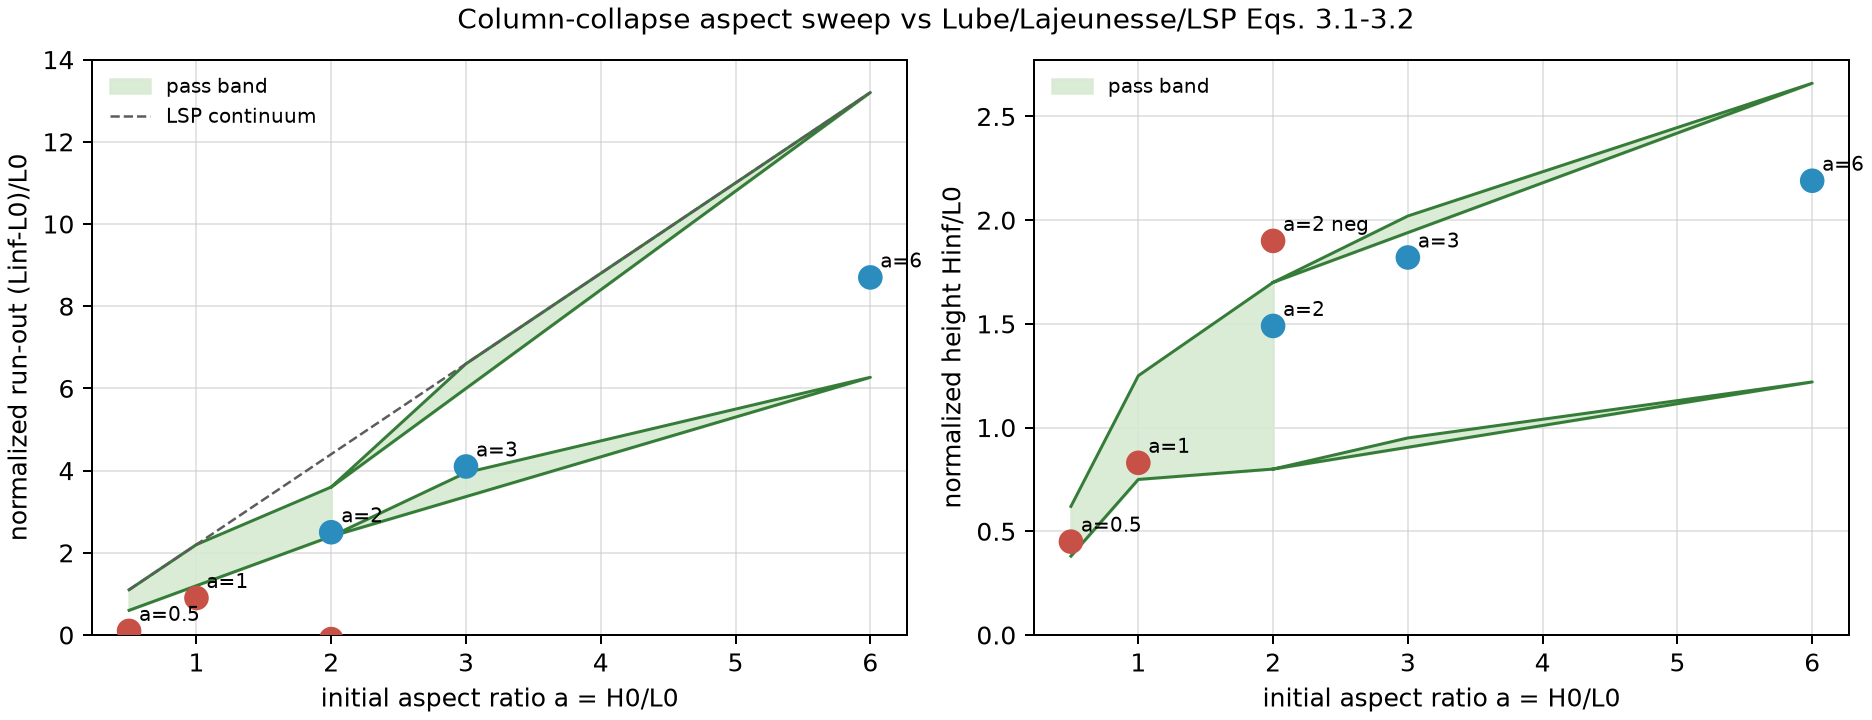
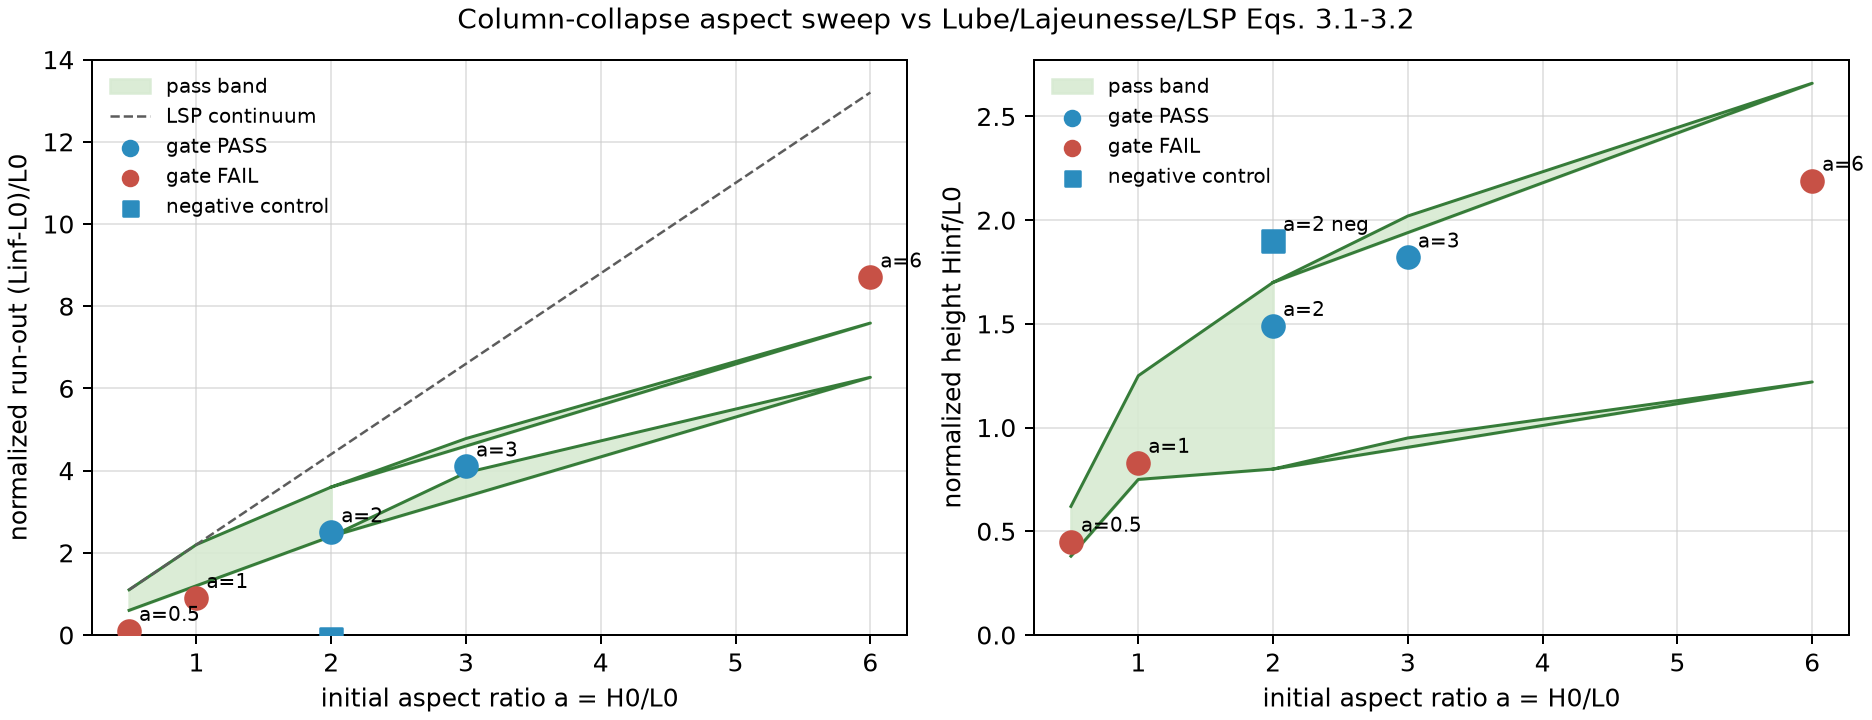
Make column-collapse sweep evidence executable

diff --git a/examples/column_collapse/sweep.py b/examples/column_collapse/sweep.py
@@ -30,13 +30,15 @@ CASES = [
 ]
 
 
-def run_case(binary: Path, config: str, expect_success: bool) -> bool:
+def run_case(binary: Path, config: str) -> bool:
     print(f"=== {config} ===", flush=True)
     completed = subprocess.run([str(binary), str(HERE / config)], cwd=ROOT)
-    passed = (completed.returncode == 0) == expect_success
+    # The executable owns the control inversion: the wrong-physics config exits
+    # zero only when the external band rejects it.  The driver must therefore
+    # require zero from every listed case, rather than inverting it a second time.
+    passed = completed.returncode == 0
     if not passed:
-        print(f"FAIL: {config} exit={completed.returncode}; expected "
-              f"{'0' if expect_success else 'non-zero'}")
+        print(f"FAIL: {config} exit={completed.returncode}; expected 0")
     return passed
 
 
@@ -63,7 +65,7 @@ def main() -> int:
             check=True,
         )
         binary = ROOT / "target" / "release" / "examples" / "column_collapse"
-        case_ok = [run_case(binary, config, config != "config_negctl.toml") for config in CASES]
+        case_ok = [run_case(binary, config) for config in CASES]
         subprocess.run([sys.executable, str(HERE / "plot_results.py")], cwd=ROOT, check=True)
         plot_ok = verify_plot_summary()
     except (OSError, RuntimeError, subprocess.CalledProcessError) as error:

diff --git a/examples/column_collapse/plot_results.py b/examples/column_collapse/plot_results.py
@@ -125,8 +125,12 @@ def main() -> None:
         ax.fill_between(band_a, band_lo, band_hi, color="#d7ead2", alpha=0.9, label="pass band")
         ax.plot(band_a, band_lo, color="#367c39", linewidth=1.2)
         ax.plot(band_a, band_hi, color="#367c39", linewidth=1.2)
-        colors = ["#2b8cbe" if row["expectation"] == "accept" else "#c75146" for row in rows]
-        ax.scatter(aspects, [float(row[key]) for row in rows], s=78, c=colors, zorder=3)
+        # Colour the observed verdict, not the intended case category: a failed
+        # physical check must be visibly red in the committed evidence.
+        colors = ["#2b8cbe" if row["run_result"] == "PASS" else "#c75146" for row in rows]
+        markers = ["o" if row["expectation"] == "accept" else "s" for row in rows]
+        for aspect, row, color, marker in zip(aspects, rows, colors, markers):
+            ax.scatter(aspect, float(row[key]), s=78, c=color, marker=marker, zorder=3)
         for row in rows:
             ax.annotate(row["case"], (float(row["aspect"]), float(row[key])), xytext=(4, 4),
                         textcoords="offset points", fontsize=8)
@@ -147,6 +151,9 @@ def main() -> None:
     axes[0].set_ylim(0.0, max(14.0, axes[0].get_ylim()[1]))
     axes[1].set_ylim(0.0, max(2.2, axes[1].get_ylim()[1]))
     for ax in axes:
+        ax.scatter([], [], c="#2b8cbe", label="gate PASS")
+        ax.scatter([], [], c="#c75146", label="gate FAIL")
+        ax.scatter([], [], c="#2b8cbe", marker="s", label="negative control")
         ax.legend(loc="upper left", frameon=False, fontsize=8)
 
     fig.suptitle("Column-collapse aspect sweep vs Lube/Lajeunesse/LSP Eqs. 3.1-3.2", fontsize=11)

diff --git a/README.md b/README.md
@@ -34,7 +34,8 @@ non-zero when it leaves the documented pass band.
 |---|---|---|---|
 | μ(I) return-map recovery | [`examples/simple_shear_mu_i`](examples/simple_shear_mu_i/README.md) | Jop, Forterre & Pouliquen 2006; GDR MiDi 2004 | PASS: fitted `mu_s = 0.38001`, `mu_2 = 0.63985`, `I_0 = 0.28042` against glass-bead constants. |
 | Hydrostatic/rest stability | [`examples/rest_state`](examples/rest_state), [`examples/hydrostatic_column`](examples/hydrostatic_column) | Bui, Fukagawa, Sako & Ohno 2008 tensile-instability criterion | PASS: rest state preserved; hydrostatic gradient ratio `0.821`; compressive pressure and no clumping. |
-| Column collapse aspect sweep | [`examples/column_collapse`](examples/column_collapse) | Lube/Lajeunesse 2005 via Lagree, Staron & Popinet 2011 | PASS: `a = 2, 3, 6` inside the Lube/Lajeunesse/LSP bands, `a = 0.5, 1` documented as outside-reference shallow-column limitations, and the wrong-physics negative control is rejected. |
+| Column collapse aspect sweep | [`examples/column_collapse`](examples/column_collapse) | Lube/Lajeunesse 2005 via Lagree, Staron & Popinet 2011 | **FAIL:** `a = 0.5, 1, 6` miss the cited experimental run-out bands; `a = 2, 3` pass and the wrong-physics negative control is rejected. The generated graph keeps all misses visible. |
+| Footpad bearing/sinkage | [`examples/footpad`](examples/footpad/README.md) | Bekker/Wong pressure-sinkage; independent DIRT DEM plate-sinkage benchmark | PASS: seated branch `n = 0.957`, `R^2 = 0.960`; zero-gravity control is rejected. |
 
 Run the full checked-in validation harness:
 
@@ -60,7 +61,6 @@ experimental or cross-code reference:
 | [`examples/haff_cooling`](examples/haff_cooling) | Kinetic-theory granular-temperature decay smoke check. |
 | [`examples/shear_heating`](examples/shear_heating) | Shear-production / Bagnold steady-state operator showcase. |
 | [`examples/conduction_test`](examples/conduction_test) | SPH Laplacian conduction operator check. |
-| [`examples/footpad`](examples/footpad) | Driven boundary and bed reaction-force machinery; SPH-CFD seed. |
 | [`examples/defluidization`](examples/defluidization) | KT-to-contact stress hand-off transient; SPH-CFD seed. |
 
 The distinction matters: demos can prove that machinery executes, while

diff --git a/examples/column_collapse/README.md b/examples/column_collapse/README.md
@@ -38,7 +38,7 @@ passing limitation report.
 | `a=0.5` | positive experiment | `[0.60, 1.10]` | `0.10` | `[0.38, 0.62]` | `0.45` | **FAIL** |
 | `a=1` | positive experiment | `[1.20, 2.20]` | `0.90` | `[0.75, 1.25]` | `0.83` | **FAIL** |
 | `a=2` | accept | `[2.40, 3.60]` | `2.50` | `[0.80, 1.70]` | `1.49` | PASS |
-| `a=3` | accept | `[3.95, 6.60]` | `4.10` | `[0.95, 2.02]` | `1.82` | PASS |
+| `a=3` | accept | `[3.95, 4.78]` | `4.10` | `[0.95, 2.02]` | `1.82` | PASS |
 | `a=6` | positive experiment | `[6.27, 7.59]` | `8.70` | `[1.22, 2.66]` | `2.19` | **FAIL** |
 | `a=2` negative control | reject | `[2.40, 3.60]` | `-0.10` | `[0.80, 1.70]` | `1.90` | PASS by rejection |
 

diff --git a/validation/README.md b/validation/README.md
@@ -146,7 +146,7 @@ band is `H∞/L0 ∈ [0.8, 1.7]`.
 | `a=0.5` | positive experimental check | `[0.60, 1.10]` | `0.10` | `[0.38, 0.62]` | `0.45` | **FAIL** |
 | `a=1` | positive experimental check | `[1.20, 2.20]` | `0.90` | `[0.75, 1.25]` | `0.83` | **FAIL** |
 | `a=2` | accept | `[2.40, 3.60]` | `2.50` | `[0.80, 1.70]` | `1.49` | PASS |
-| `a=3` | accept | `[3.95, 6.60]` | `4.10` | `[0.95, 2.02]` | `1.82` | PASS |
+| `a=3` | accept | `[3.95, 4.78]` | `4.10` | `[0.95, 2.02]` | `1.82` | PASS |
 | `a=6` | positive experimental check | `[6.27, 7.59]` | `8.70` | `[1.22, 2.66]` | `2.19` | **FAIL** |
 
 The shallow cases under-run the experimental run-out band by `0.50 L0` (`a=0.5`)